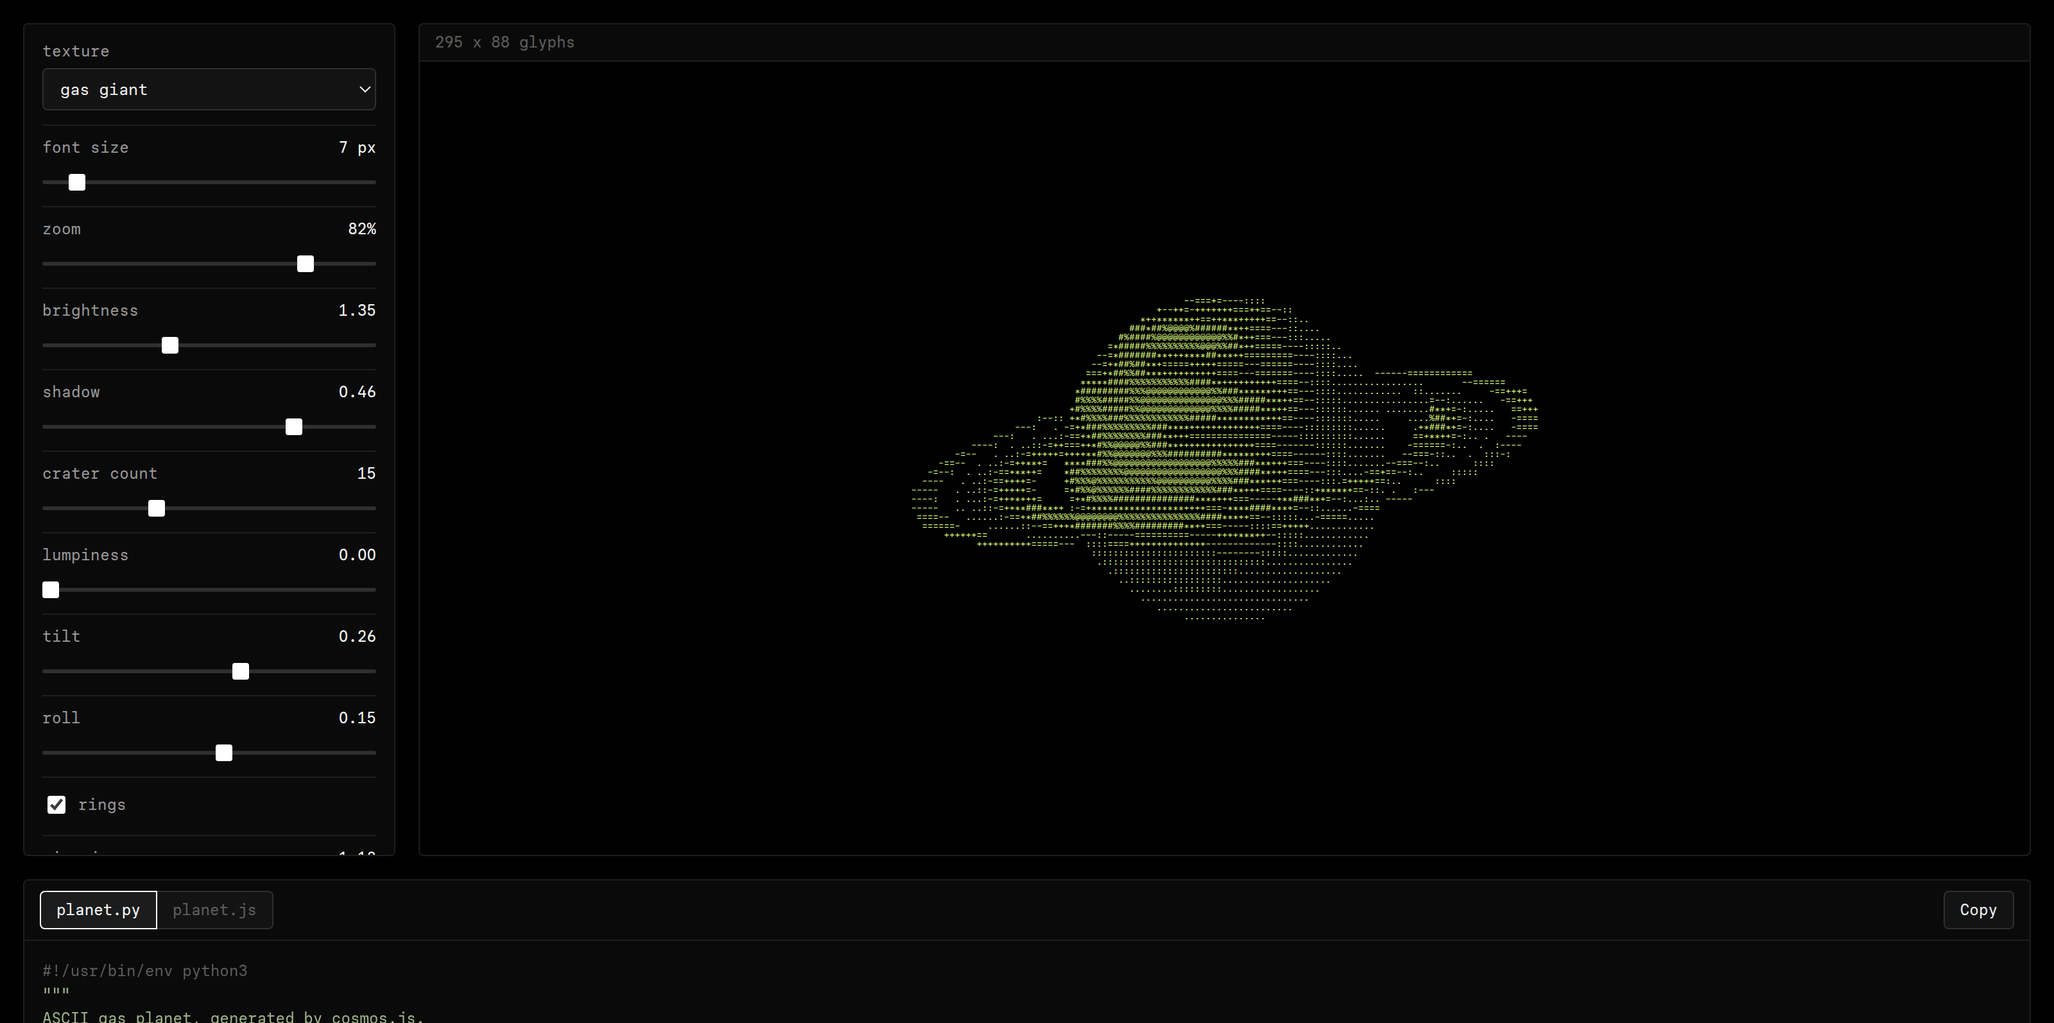
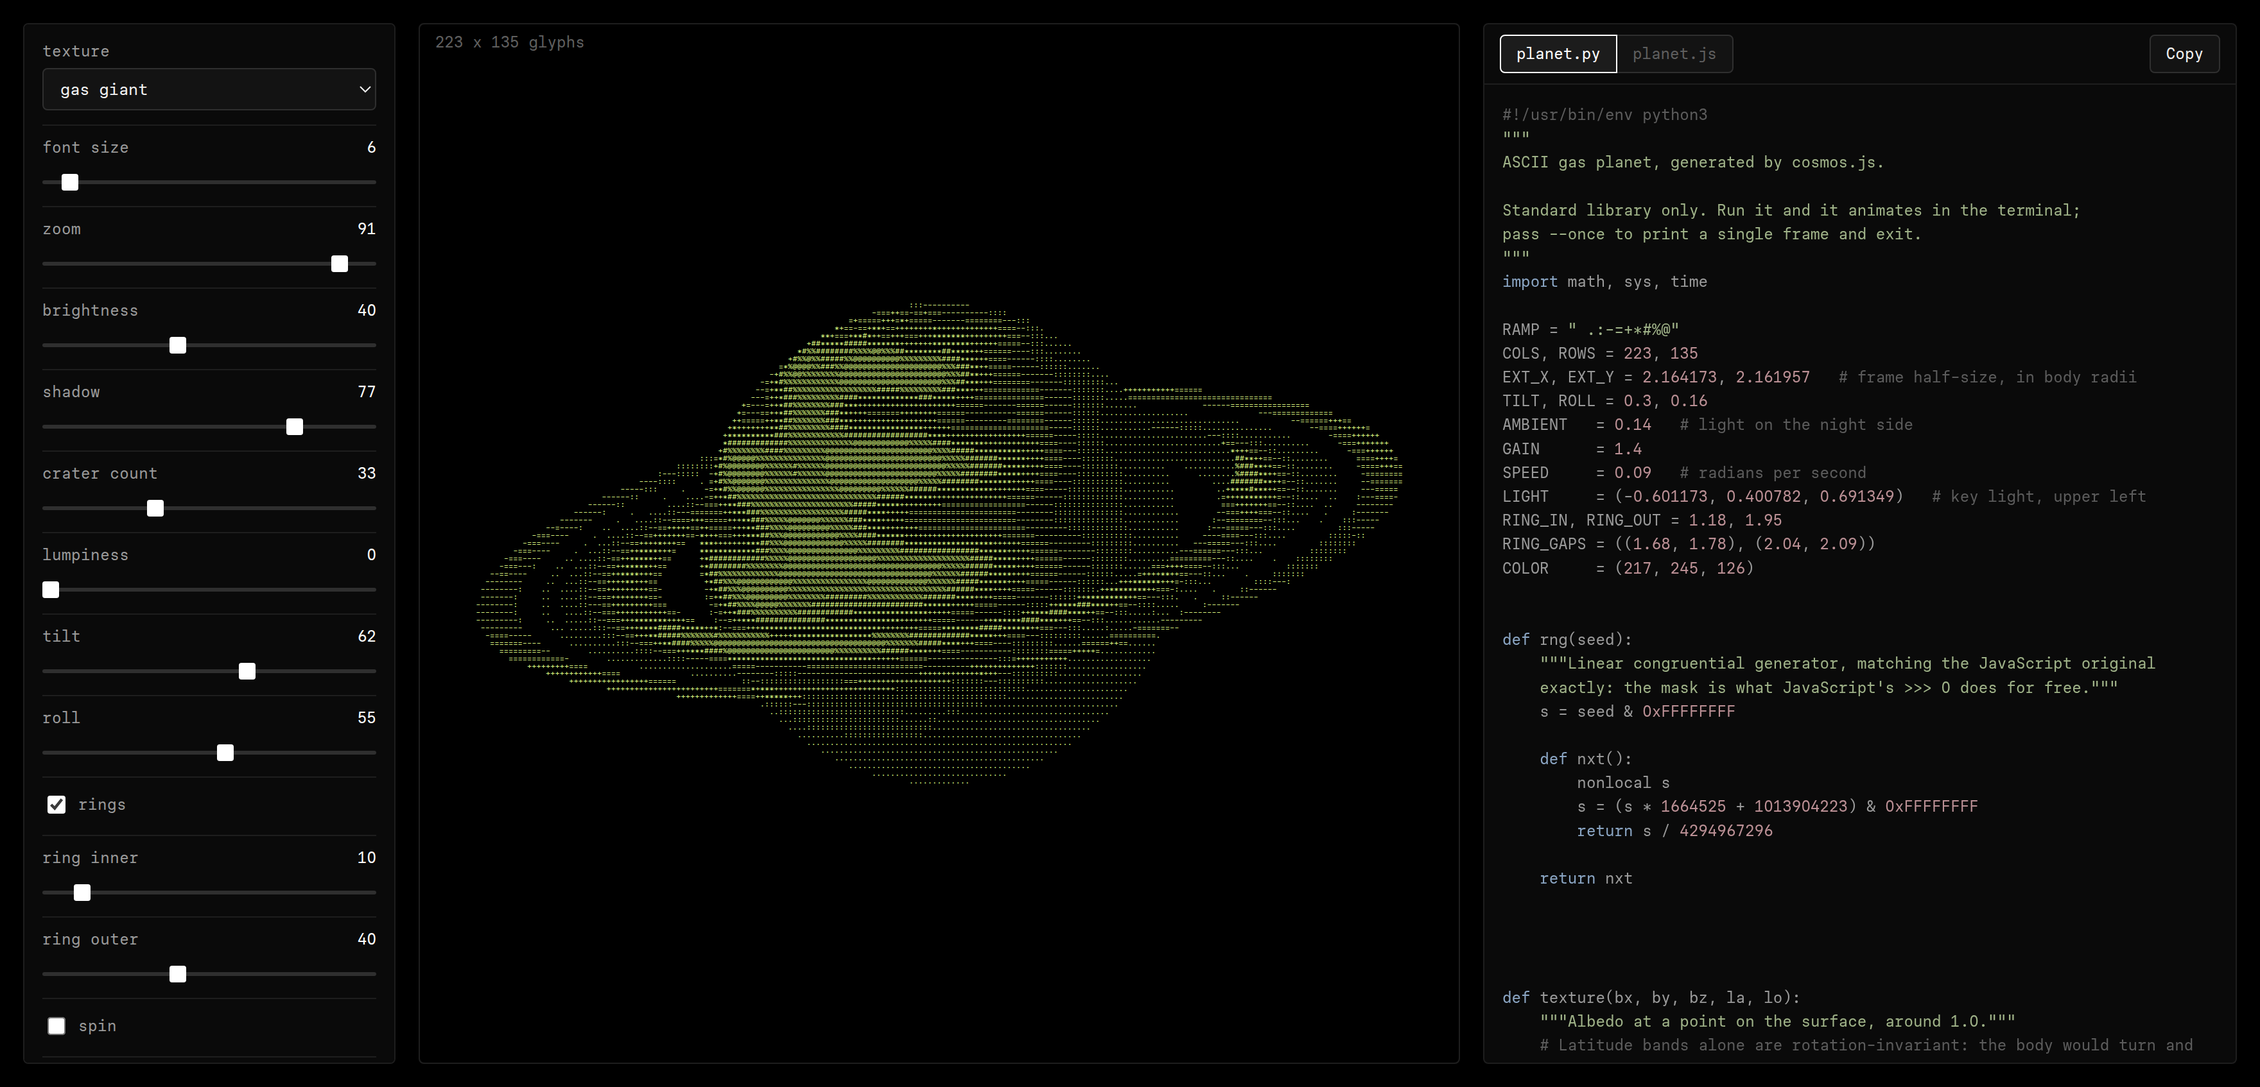
One screen layout, 0 to 100 sliders, and close the holes in the planet
Layout:
- three columns across one screen: controls, a square preview, and the
  generated source down the right where it scrolls on its own. The page
  itself no longer scrolls at all
- the preview panel is a true square, its width taken from its height, so
  the planet sits in a frame with no odd dimension to it
- the stage is overflow hidden rather than auto. The art is fitted to the
  box every paint, so it could only ever overrun by a sub-pixel rounding
  error, and auto was turning that fraction into a pair of real scrollbars
  across a picture with nothing to scroll to

Sliders:
- every range control runs 0 to 100 on the page whatever it writes behind
  the scenes. SPEC keeps the real range and toSlider/fromSlider are the one
  place the two scales meet
- the dead fmt and step entries that went with the old per-control ranges
  are gone

Rendering fix:
- index 0 of the ramp is a space, the same glyph as empty sky, so a dark
  enough patch of surface drew as a gap in the planet. On ice, whose
  fractures bottom out near zero, that punched visible holes through the
  disk. Anything the ray struck now gets at least index 1
- fixed in all three copies of the renderer, so the exports match the
  preview. Rings are deliberately left out: a ring thins to nothing at its
  edge and fading to sky there is correct

diff --git a/web/js/app.js b/web/js/app.js
@@ -80,7 +80,9 @@
        name      the row's caption: above the control, or beside it for a
                  check or the color swatch
        type      range | select | check | color | seg | number
-       fmt       how the value reads out beside the label (default: 2dp)
+       min, max  the real range a range control spans. The page always shows
+                 0 to 100; fromSlider maps the position onto this
+       fmt       how a number box reads out beside its label
        invert    the slider runs backward against the value it writes
        preview   cheap: repaint, but do not rebuild the body
        when      only show this row while cfg[when] is truthy
@@ -96,31 +98,27 @@
        the grid always fills the panel: a smaller glyph is simply more of them.
        rebuild() turns this into a row count, so the number on the slider is
        the number of pixels a character actually gets. */
-    { key: 'size', name: 'font size', type: 'range', min: 4, max: 40, step: 1,
-      fmt: function (v) { return Math.round(v) + ' px'; } },
+    { key: 'size', name: 'font size', type: 'range', min: 4, max: 40 },
     /* How much of the panel the body fills, from a speck to the whole thing.
        It stops at 1 on purpose: past that the planet would run off its own
        frame and get cut, and the frame is the picture. Unlike font size this
        changes no character counts at all, only how much sky each one covers,
        and it rides into both exports through EXT_X and EXT_Y. */
-    { key: 'zoom', name: 'zoom', type: 'range', min: 0.08, max: 1, step: 0.01,
-      fmt: function (v) { return Math.round(v * 100) + '%'; } },
+    { key: 'zoom', name: 'zoom', type: 'range', min: 0.08, max: 1 },
     /* The top of this range is well past the point where the lit side starts
        clipping to a solid block of '@'. That is deliberate: a blown out planet
        is a look, and the ramp only has ten steps to lose. */
-    { key: 'brightness', name: 'brightness', type: 'range', min: 0.35, max: 3, step: 0.01 },
+    { key: 'brightness', name: 'brightness', type: 'range', min: 0.35, max: 3 },
     /* Writes ambient light, but reads as its opposite: more shadow is less
        light on the night side. See toSlider/fromSlider. */
-    { key: 'ambient', name: 'shadow', type: 'range', min: 0, max: 0.6, step: 0.01,
-      invert: true },
-    { key: 'craters', name: 'crater count', type: 'range', min: 0, max: 45, step: 1,
-      fmt: function (v) { return String(Math.round(v)); } },
-    { key: 'lumpiness', name: 'lumpiness', type: 'range', min: 0, max: 1.4, step: 0.01 },
-    { key: 'tilt', name: 'tilt', type: 'range', min: -1.3, max: 1.3, step: 0.01 },
-    { key: 'roll', name: 'roll', type: 'range', min: -1.6, max: 1.6, step: 0.01 },
+    { key: 'ambient', name: 'shadow', type: 'range', min: 0, max: 0.6, invert: true },
+    { key: 'craters', name: 'crater count', type: 'range', min: 0, max: 45 },
+    { key: 'lumpiness', name: 'lumpiness', type: 'range', min: 0, max: 1.4 },
+    { key: 'tilt', name: 'tilt', type: 'range', min: -1.3, max: 1.3 },
+    { key: 'roll', name: 'roll', type: 'range', min: -1.6, max: 1.6 },
     { key: 'rings', name: 'rings', type: 'check' },
-    { key: 'ringInner', name: 'ring inner', type: 'range', min: 1.05, max: 2.4, step: 0.01, when: 'rings' },
-    { key: 'ringOuter', name: 'ring outer', type: 'range', min: 1.1, max: 3.2, step: 0.01, when: 'rings' },
+    { key: 'ringInner', name: 'ring inner', type: 'range', min: 1.05, max: 2.4, when: 'rings' },
+    { key: 'ringOuter', name: 'ring outer', type: 'range', min: 1.1, max: 3.2, when: 'rings' },
     /* Preview only. The exports always animate, whatever this says: unchecking
        it parks the angle where it is, which is what you want while dialing in
        a texture or lining up a frame to copy. The two controls it hides do
@@ -129,18 +127,35 @@
     { key: 'spin', name: 'spin', type: 'check', preview: true },
     { key: 'direction', name: 'direction', type: 'seg', when: 'spin',
       options: [[-1, 'clockwise'], [1, 'counterclockwise']] },
-    { key: 'speed', name: 'rotation speed', type: 'range', min: 0, max: 0.6, step: 0.005,
-      when: 'spin' },
+    { key: 'speed', name: 'rotation speed', type: 'range', min: 0, max: 0.6, when: 'spin' },
     { key: 'color', name: 'color', type: 'color', preview: true },
     { key: 'seed', name: 'seed', type: 'number', min: 0, step: 1,
       fmt: function (v) { return String(Math.round(v)); } }
   ];
 
-  /* A slider can run the opposite way to the value it writes. Keeping the
-     conversion in one pair of functions means the handler, the readout and the
-     initial position cannot disagree about which way round it is. */
-  function toSlider(c, v) { return c.invert ? (c.min + c.max - v) : v; }
-  function fromSlider(c, p) { return c.invert ? (c.min + c.max - p) : p; }
+  /* Every slider runs 0 to 100 whatever it actually writes, so the controls
+     column reads as one set of dials rather than as eleven unrelated number
+     lines. The real range lives in SPEC and never reaches the page: these two
+     functions are the only place the two scales meet, which is what keeps the
+     handler, the readout and the opening position from disagreeing.
+
+     `invert` still flips the direction, for the one slider that reads as the
+     opposite of the value it writes. */
+  var SLIDER_MAX = 100;
+
+  function toSlider(c, v) {
+    var t = (v - c.min) / (c.max - c.min);              // real value as 0..1
+    if (c.invert) t = 1 - t;
+    return Math.round(clamp01(t) * SLIDER_MAX);
+  }
+
+  function fromSlider(c, p) {
+    var t = clamp01(p / SLIDER_MAX);
+    if (c.invert) t = 1 - t;
+    return c.min + t * (c.max - c.min);
+  }
+
+  function clamp01(t) { return t < 0 ? 0 : t > 1 ? 1 : t; }
 
   var host = document.getElementById('controls');
   var out = document.getElementById('out');
@@ -187,7 +202,9 @@
     if (c.type === 'range') {
       input = document.createElement('input');
       input.type = 'range';
-      input.min = c.min; input.max = c.max; input.step = c.step;
+      /* Always 0 to 100 on the page. fromSlider turns the position back into
+         whatever the renderer actually wants. */
+      input.min = 0; input.max = SLIDER_MAX; input.step = 1;
     } else if (c.type === 'select') {
       input = document.createElement('select');
       c.options.forEach(function (o) {
@@ -279,17 +296,25 @@
         });
       } else if (c.type === 'check') {
         nd.input.checked = !!v;
-      } else {
+      } else if (c.type === 'range') {
+        /* The only control whose page value is not its config value. A select,
+           a color well and a number box all carry the setting itself, and
+           running those through toSlider asks for (v - undefined), which lands
+           NaN in the element and empties it. */
         nd.input.value = toSlider(c, v);
+      } else {
+        nd.input.value = v;
       }
 
       /* The readout. Inline rows have none at all, and a select or a seg
          already shows its own value, so theirs stays blank. */
       if (nd.val) {
         if (c.type === 'select' || c.type === 'seg') nd.val.textContent = '';
-        /* Read out what the slider shows, not what it writes. */
-        else nd.val.textContent = c.fmt ? c.fmt(toSlider(c, v))
-                                        : Number(toSlider(c, v)).toFixed(2);
+        /* The readout reports the slider, not the setting behind it: every
+           range reads 0 to 100 like every other one. A number box is the
+           exception, since the number in it is the value itself. */
+        else if (c.type === 'number') nd.val.textContent = c.fmt ? c.fmt(v) : String(v);
+        else nd.val.textContent = String(toSlider(c, v));
       }
 
       /* Ring radii are meaningless with the rings switched off. */
@@ -297,11 +322,15 @@
     });
 
     /* An inner radius above the outer one draws nothing at all, which looks
-       like a bug rather than a setting. Keep them ordered. */
+       like a bug rather than a setting. Keep them ordered, and push the nudge
+       back out through toSlider: the row is a 0 to 100 slider like every other
+       one, so writing a radius straight into it would peg the thumb at the end
+       and print a number the page never uses. */
     if (cfg.ringOuter < cfg.ringInner + 0.15) {
-      cfg.ringOuter = cfg.ringInner + 0.15;
-      nodes.ringOuter.input.value = cfg.ringOuter;
-      nodes.ringOuter.val.textContent = cfg.ringOuter.toFixed(2);
+      var nd = nodes.ringOuter;
+      cfg.ringOuter = Math.min(nd.spec.max, cfg.ringInner + 0.15);
+      nd.input.value = toSlider(nd.spec, cfg.ringOuter);
+      nd.val.textContent = String(toSlider(nd.spec, cfg.ringOuter));
     }
   }
 
@@ -317,12 +346,6 @@
     cfg.wide = stageShape();          // the frame is cut to the panel it fills
     cfg.rows = rowsForSize(cfg.size);  // and the grid to the glyph size asked for
     body = Cosmos.build(cfg);
-    /* What the glyphs actually came out at, which is the slider's own number
-       everywhere except the small end, where the budget in rowsForSize rounds
-       them up. sync() has already run by here, so this is the last word, and
-       it should be the true one rather than the one that was asked for. */
-    var box = stageBox();
-    if (box.h > 0) nodes.size.val.textContent = Math.round(box.h / body.rows) + ' px';
     paint();
     code();
   }

diff --git a/web/css/app.css b/web/css/app.css
@@ -69,9 +69,6 @@
   /* The app's own padding. The first row is sized against the window, so this
      has to be discounted from it: see grid-template-rows below. */
   --app-pad: clamp(12px, 1.6vw, 18px);
-  /* How much of the code panel sits above the fold. Enough for its tab row and
-     a line or two of source, so it is obvious there is more to scroll to. */
-  --code-peek: 112px;
 }
 
 *, *::before, *::after { box-sizing: border-box; }
@@ -82,6 +79,10 @@
 html { font-family: var(--font); }
 
 body {
+  /* The app is sized to the viewport, so anything that would scroll the page
+     is a layout bug rather than content. The narrow breakpoint turns this
+     back on, where stacking really does need the scroll. */
+  overflow: hidden;
   margin: 0;
   background: var(--bg);
   color: var(--fg);
@@ -95,43 +96,64 @@ body {
 button, input, select, textarea, option { font-family: inherit; }
 
 /* --- layout -------------------------------------------------
-   Controls hold a fixed column; the preview takes the rest and the
-   code panes run the full width underneath, where long lines have
-   room to breathe. */
+   One screen, three columns, no page scroll: controls on the
+   left, the square preview in the middle, the generated source
+   down the right where it can scroll on its own.
+
+   The page itself never scrolls. Anything that can outgrow its
+   box scrolls inside that box instead, which is why both the
+   controls column and the source panes carry their own
+   overflow. */
 .app {
   display: grid;
-  grid-template-columns: 290px minmax(0, 1fr);
-  grid-template-areas: "controls preview" "code code";
+  grid-template-columns: 290px auto minmax(280px, 1fr);
+  grid-template-areas: "controls preview code";
+  grid-template-rows: minmax(0, 1fr);
   gap: var(--app-pad);
   padding: var(--app-pad);
-  /* Stretch, not start: the preview panel matches the height of the controls
-     column beside it instead of stopping at its own content. */
-  align-items: stretch;
+  /* dvh, so a mobile browser's collapsing toolbar does not leave the bottom
+     of the page permanently out of reach. The vh line before it is the
+     fallback for anything that does not know dvh. */
+  height: 100vh;
+  height: 100dvh;
 }
-.controls { grid-area: controls; }
-/* A column, so the stage can take every pixel the panel head does not. */
-.preview  { grid-area: preview; display: flex; flex-direction: column; }
-.code     { grid-area: code; }
+.controls { grid-area: controls; overflow-y: auto; }
 
+/* A perfect square, and the only panel whose width is decided by its height
+   rather than by the grid. `auto` on the middle column means the column takes
+   whatever width the square resolves to, so the source panel gets the rest.
+   The head sits over the top of the stage rather than above it, because a bar
+   with its own height would make the panel a square plus a strip. */
+.preview {
+  grid-area: preview;
+  position: relative;
+  height: 100%;
+  aspect-ratio: 1 / 1;
+  overflow: hidden;
+}
+.preview .panel__head {
+  position: absolute; top: 0; left: 0; right: 0; z-index: 1;
+  border-bottom: 0;
+  background: transparent;
+  pointer-events: none;
+}
+.stage { position: absolute; inset: 0; }
+
+.code { grid-area: code; display: flex; flex-direction: column; min-height: 0; }
+
+/* Narrow: the three columns become three rows and the page is allowed to
+   scroll again, because a square preview plus controls plus source does not
+   fit a phone screen at any useful size. */
 @media (max-width: 900px) {
   .app {
     grid-template-columns: minmax(0, 1fr);
     grid-template-areas: "preview" "controls" "code";
+    grid-template-rows: auto auto auto;
+    height: auto;
   }
-}
-
-/* The first screen is the tool: the preview fills the window top to bottom, so
-   a wide ring system has the whole viewport to sit in. Without this the row is
-   as tall as the controls column, which is taller than most windows, and the
-   preview's middle ends up below the fold. The controls scroll inside their own
-   column instead of stretching the row; the code panes are a scroll away. */
-@media (min-width: 901px) {
-  .app { grid-template-rows: calc(100vh - 2 * var(--app-pad) - var(--code-peek)) auto; }
-  .app { grid-template-rows: calc(100dvh - 2 * var(--app-pad) - var(--code-peek)) auto; }
-  .controls { overflow-y: auto; }
-  /* Both need to be allowed to shrink below their content, or the grid row
-     cannot cap them. */
-  .preview, .stage { min-height: 0; }
+  .preview { height: auto; }
+  .controls { overflow-y: visible; }
+  body { overflow: auto; }
 }
 
 .panel {
@@ -252,18 +274,22 @@ button:hover { color: var(--accent); border-color: var(--accent); }
    which is invisible on some monitors and reads as a halo around the art on
    others. The planet is meant to be ASCII and nothing else. */
 .stage {
-  flex: 1 1 auto;
-  /* safe: if the art is ever larger than the box anyway, centering would put
-     its top-left corner outside the scrollable area, where it cannot be
-     reached. safe centering falls back to start alignment in that case. */
+  /* The art is fitted to this box, so centering it is exact rather than a
+     guess. `safe` is kept as the floor: if a frame ever did come out larger
+     than the box, centering would push its top-left corner out of reach,
+     and safe centering falls back to start alignment instead. */
   display: grid; place-items: safe center;
   /* No padding. The art is cut to this box and drawn at the size that fills
      it, so any padding here reads as a border around the planet. The frame
      already carries room of its own, see ROOM in planet.js. */
-  min-height: 420px; padding: 0;
+  padding: 0;
   background: var(--bg);
-  border-radius: 0 0 var(--r) var(--r);
-  overflow: auto;
+  border-radius: var(--r);
+  /* hidden, not auto. The art is fitted to this box every paint, so it can
+     only ever overrun it by a sub-pixel rounding error, and `auto` turned
+     that fraction of a pixel into a pair of real scrollbars across a picture
+     with nothing to scroll to. */
+  overflow: hidden;
 }
 #out {
   margin: 0;
@@ -290,7 +316,9 @@ button:hover { color: var(--accent); border-color: var(--accent); }
 .src {
   display: none;
   margin: 0; padding: 14px;
-  max-height: 460px; overflow: auto;
+  /* The pane is the scrolling box now, not the page. flex:1 inside the code
+     panel gives it every pixel the tab row does not want. */
+  flex: 1 1 auto; min-height: 0; overflow: auto;
   font: 400 12px/1.55 var(--font);
   color: var(--fg-2);
   white-space: pre;

diff --git a/web/js/emit.js b/web/js/emit.js
@@ -348,7 +348,12 @@ var Emit = (function () {
     L.push('                v = back');
     L.push('            # int(x + 0.5), not round(): Python rounds half to even and');
     L.push('            # would pick a different glyph than the JavaScript original.');
-    L.push('            line.append(RAMP[int(min(1.0, max(0.0, v)) * last + 0.5)])');
+    L.push('            idx = int(min(1.0, max(0.0, v)) * last + 0.5)');
+    L.push('            # RAMP[0] is a space, the same glyph as empty sky, so the');
+    L.push('            # darkest ground would read as a hole in the planet.');
+    L.push('            if idx == 0 and hit:');
+    L.push('                idx = 1');
+    L.push('            line.append(RAMP[idx])');
     L.push('        rows.append("".join(line))');
     L.push('    return "\\n".join(rows)');
     L.push('');
@@ -698,7 +703,11 @@ var Emit = (function () {
     L.push('      var v = (cov > 0 && (d2 > 1 || zr > zs))');
     L.push('            ? ringLum * cov + back * (1 - cov)');
     L.push('            : back;');
-    L.push('      line.push(RAMP.charAt(Math.round(Math.min(1, Math.max(0, v)) * last)));');
+    L.push('      var idx = Math.round(Math.min(1, Math.max(0, v)) * last);');
+    L.push('      // RAMP[0] is a space, the same glyph as empty sky, so the');
+    L.push('      // darkest ground would read as a hole in the planet.');
+    L.push('      if (idx === 0 && hit) idx = 1;');
+    L.push('      line.push(RAMP.charAt(idx));');
     L.push('    }');
     L.push('    out.push(line.join(""));');
     L.push('  }');

diff --git a/web/js/planet.js b/web/js/planet.js
@@ -617,9 +617,21 @@ var Cosmos = (function () {
               ? ringLum * cov + back * (1 - cov)
               : back;
         /* And this is the line the whole file exists for: a brightness in
-           0..1 becomes one of ten characters. Index 0 is a space, so empty sky
-           falls out of the same expression. */
-        line[i] = RAMP.charAt(Math.round(clamp(v, 0, 1) * lastIdx));
+           0..1 becomes one of ten characters.
+
+           Index 0 of the ramp is a space, which is also what empty sky is
+           drawn with. A dark enough patch of surface therefore used to come
+           out indistinguishable from a gap in the planet, and on ice, whose
+           fractures bottom out near zero, that punched visible holes clean
+           through the disk. Anything the ray actually struck gets at least
+           index 1, so the darkest ground is still ground.
+
+           Rings are deliberately left out of this. A ring thins to nothing at
+           its outer edge, and fading to sky there is the point; forcing a
+           glyph would draw a hard rim around something that has none. */
+        var idx = Math.round(clamp(v, 0, 1) * lastIdx);
+        if (idx === 0 && hit) idx = 1;
+        line[i] = RAMP.charAt(idx);
       }
       out[j] = line.join('');
     }
